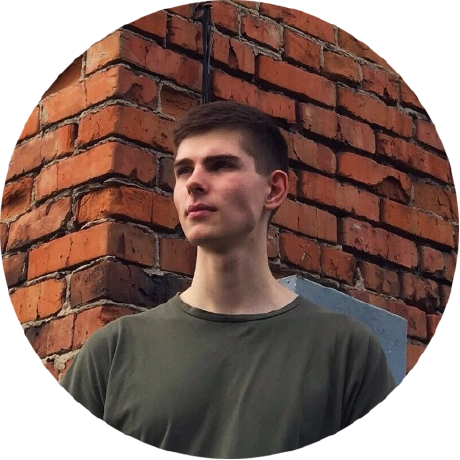
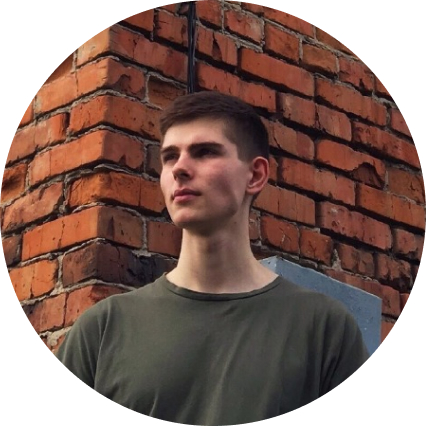
fix: styles

diff --git a/src/utils/preloader.utils.ts b/src/utils/preloader.utils.ts
@@ -24,13 +24,47 @@ const arrayImage: Image[] = [
   { src: path + "svg/github/github.svg", size: "2.16" },
   { src: path + "svg/logo/logo-dark.svg", size: "13.9" },
   { src: path + "svg/logo/logo-light.svg", size: "13.9" },
-  { src: path + "img/landing/promo.png", size: "26.8" },
-  { src: path + "img/landing/promo2.png", size: "14.3" },
-  { src: path + "img/landing/promo3.png", size: "12.1" },
-  { src: path + "img/landing/promo4.png", size: "10.8" },
-  { src: path + "img/landing/promo5.png", size: "17.9" },
+  { src: path + "img/landing/promo.png", size: "50.76" },
+  { src: path + "img/landing/promo2.png", size: "18.4" },
+  { src: path + "img/landing/promo3.png", size: "19.2" },
+  { src: path + "img/landing/promo4.png", size: "19.9" },
+  { src: path + "img/landing/promo5.png", size: "19.7" },
   { src: path + "svg/rs/logo_rs_large.svg", size: "15.8" },
   { src: path + "svg/rs/logo_rs.svg", size: "10.38" },
+  { src: path + "svg/achievements/calendar.svg", size: "453" },
+  { src: path + "svg/achievements/dumbbells.svg", size: "9.29" },
+  { src: path + "svg/achievements/fire.svg", size: "1.22" },
+  { src: path + "svg/achievements/salad.svg", size: "73.5" },
+  { src: path + "svg/achievements/steps.svg", size: "6.2" },
+  { src: path + "svg/achievements/water.svg", size: "3.65" },
+  { src: path + "svg/arrow/arrow-left-dark.svg", size: "367" },
+  { src: path + "svg/arrow/arrow-left-dark-hover.svg", size: "367" },
+  { src: path + "svg/arrow/arrow-left-light.svg", size: "367" },
+  { src: path + "svg/arrow/arrow-left-light-hover.svg", size: "367" },
+  { src: path + "svg/burger-menu/burger-menu-icon-dark.svg", size: "677" },
+  { src: path + "svg/burger-menu/burger-menu-icon-light.svg", size: "367" },
+  { src: path + "svg/burger-menu/close-icon-light.svg", size: "367" },
+  { src: path + "svg/burger-menu/close-icon-modal-light.svg", size: "367" },
+  { src: path + "svg/meals/breakfast.svg", size: "99.74" },
+  { src: path + "svg/meals/lunch.svg", size: "117" },
+  { src: path + "svg/meals/dinner.svg", size: "101" },
+  { src: path + "svg/nutrition/calories.svg", size: "1.38" },
+  { src: path + "svg/nutrition/fats.svg", size: "4" },
+  { src: path + "svg/nutrition/proteins.svg", size: "10" },
+  { src: path + "svg/nutrition/calories.svg", size: "1.38" },
+  { src: path + "svg/nutrition/fats.svg", size: "4" },
+  { src: path + "svg/nutrition/proteins.svg", size: "10" },
+  { src: path + "svg/workouts/abs.svg", size: "15" },
+  { src: path + "svg/workouts/beginners.svg", size: "16" },
+  { src: path + "svg/workouts/cardio.svg", size: "21" },
+  { src: path + "svg/workouts/equipments.svg", size: "20" },
+  { src: path + "svg/workouts/fat-burning.svg", size: "22" },
+  { src: path + "svg/workouts/fullbody.svg", size: "27" },
+  { src: path + "svg/workouts/gym.svg", size: "20" },
+  { src: path + "svg/workouts/intense.svg", size: "20" },
+  { src: path + "svg/workouts/meditation.svg", size: "17" },
+  { src: path + "svg/workouts/no-equipments.svg", size: "11" },
+  { src: path + "svg/workouts/no-jumping.svg", size: "20" },
   { src: MediaEndpoint.PROGRAM + "programs/0.svg", size: "23.5" },
   { src: MediaEndpoint.PROGRAM + "programs/1.svg", size: "20.5" },
   { src: MediaEndpoint.PROGRAM + "programs/2.svg", size: "22.3" },

diff --git a/src/styles/components/_team.scss b/src/styles/components/_team.scss
@@ -28,6 +28,7 @@
 	flex-direction: column;
 	gap: 30px;
 	flex-grow: 1;
+	padding: 26px 36px 26px;
 	background: var(--secondary-bg-color);
 	border-radius: 10px;
 
@@ -39,11 +40,9 @@
 		display: flex;
 		flex-direction: column;
 		gap: 10px;
-		padding: 26px 36px 26px;
 
 		@include media-tablet {
 			text-align: center;
-			padding: 10px 20px 20px;
 		}
 	}
 
@@ -65,6 +64,7 @@
 		@include font(2.2rem, 4.6rem, 300);
 
 		@include media-tablet {
+			@include font(1.8rem, 4.6rem, 300);
 			text-align: center;
 		}
 	}
@@ -80,13 +80,16 @@
 		display: flex;
 		justify-content: center;
 		align-self: center;
-		padding: 26px 36px 26px;
 		width: 300px;
 
 		>* {
 			width: 100%;
 			height: 100%;
 			border-radius: 50%;
+		}
+
+		@include media-tablet {
+			max-width: 200px;
 		}
 	}
 }

diff --git a/src/view/meditations/single/meditation.view.ts b/src/view/meditations/single/meditation.view.ts
@@ -28,13 +28,12 @@ class MeditationView {
     const { back } = getMeditationsLang();
 
     this.layout.meditation = document.createElement("section");
-    this.layout.meditation.className = "meditation";
+    this.layout.meditation.className = "meditation wrapper";
 
     this.layout.back = backButton.render(`${back}`, Routing.MEDITATIONS);
 
     this.layout.wrapper = document.createElement("div");
-    this.layout.wrapper.className =
-      "meditation__wrapper wrapper cards__container";
+    this.layout.wrapper.className = "meditation__wrapper cards__container";
 
     this.layout.meditation.append(this.layout.wrapper);
 

diff --git a/src/styles/abstract/_variables.scss b/src/styles/abstract/_variables.scss
@@ -1,4 +1,4 @@
-$color-light: #fcfcff;
+$color-light: #fafafa;
 
 $color-overlay: rgba(80, 80, 80, 0.4);
 $font-family-primary: "Montserrat", sans-serif;
@@ -17,7 +17,7 @@ $color-primary-dark: #454550;
 $color-accent-light: #7079fe;
 $color-accent-dark: #8388cf;
 
-$color-primary-bg-light: linear-gradient(274.42deg, #92A3FD 0%, #9DCEFF 124.45%);
+$color-primary-bg-light: linear-gradient(274.42deg, #92a3fd 0%, #9dceff 124.45%);
 $color-primary-bg-dark: #2a2e3d;
 
 $color-modal-bg-light: #f6f4f7;

diff --git a/src/styles/layouts/_footer.scss b/src/styles/layouts/_footer.scss
@@ -25,7 +25,7 @@
 		align-items: center;
 
 		.icon {
-			opacity: 0.5;
+			opacity: var(--footer-opacity);
 			filter: var(--rs-logo);
 		}
 	}
@@ -37,7 +37,7 @@
 	&__rss {
 		grid-column: 5/6;
 		text-align: end;
-		opacity: 0.5;
+		opacity: var(--footer-opacity);
 		filter: var(--rs-logo);
 	}
 
@@ -63,7 +63,7 @@
 	justify-content: center;
 	text-align: center;
 	gap: 20px;
-	opacity: 0.5;
+	opacity: var(--footer-opacity);
 
 	// .select-lang__text
 	&__text {

diff --git a/src/styles/base/_base.scss b/src/styles/base/_base.scss
@@ -120,6 +120,8 @@
   --context-accent: #{$color-context-accent-dark};
 
   --rs-logo: invert(1);
+
+  --footer-opacity: 0.5;
 }
 
 .body--light {
@@ -204,6 +206,8 @@
   --context-accent: #{$color-context-accent-light};
 
   --rs-logo: invert(0);
+
+  --footer-opacity: 0.7;
 }
 
 h1 {

diff --git a/src/styles/layouts/_header.scss b/src/styles/layouts/_header.scss
@@ -2,7 +2,7 @@
 
 .header {
 	box-shadow: 0 4px 20px rgba(0, 0, 0, 0.05);
-	padding: 25px 0 27px 0;
+	padding: 15px 0 17px 0;
 	margin-bottom: 60px;
 
 	&__logo {
@@ -74,6 +74,6 @@
 	}
 
 	@include media-mobile-big {
-		margin-bottom: 10px;
+		margin-bottom: 15px;
 	}
 }

diff --git a/src/styles/base/_icons.scss b/src/styles/base/_icons.scss
@@ -6,8 +6,12 @@
 
 .icon--logo {
 	background-image: var(--logo);
-	@include icon-size(175px, 40px);
+	@include icon-size(160px, 60px);
 	background-size: 100%;
+
+	@include media-tablet {
+		@include icon-size(130px, 45px);
+	}
 }
 
 .icon--close {

diff --git a/src/model/auth.model.ts b/src/model/auth.model.ts
@@ -5,8 +5,6 @@ import EventEmitter from "utils/observer.utils";
 class AuthModel extends EventEmitter {
   updateUserState(user: User) {
     state.user = { ...user };
-
-    console.log("state", state);
   }
 
   updateLoaded() {

diff --git a/src/view/components/modal/popup.ts b/src/view/components/modal/popup.ts
@@ -38,7 +38,7 @@ class PopupWindow {
       this.popup.classList.add("popup--show");
     }, 1000);
 
-    //setTimeout(this.closePopup, 5000);
+    setTimeout(this.closePopup, 5000);
   }
 
   closePopup() {

diff --git a/src/styles/components/_trainings.scss b/src/styles/components/_trainings.scss
@@ -9,6 +9,10 @@
 	&__desc {
 		@include font(2.2rem, 4.6rem, 300);
 		margin: 0 0 60px;
+
+		@include media-tablet {
+			margin: 0 0 30px;
+		}
 	}
 
 	&__content {
